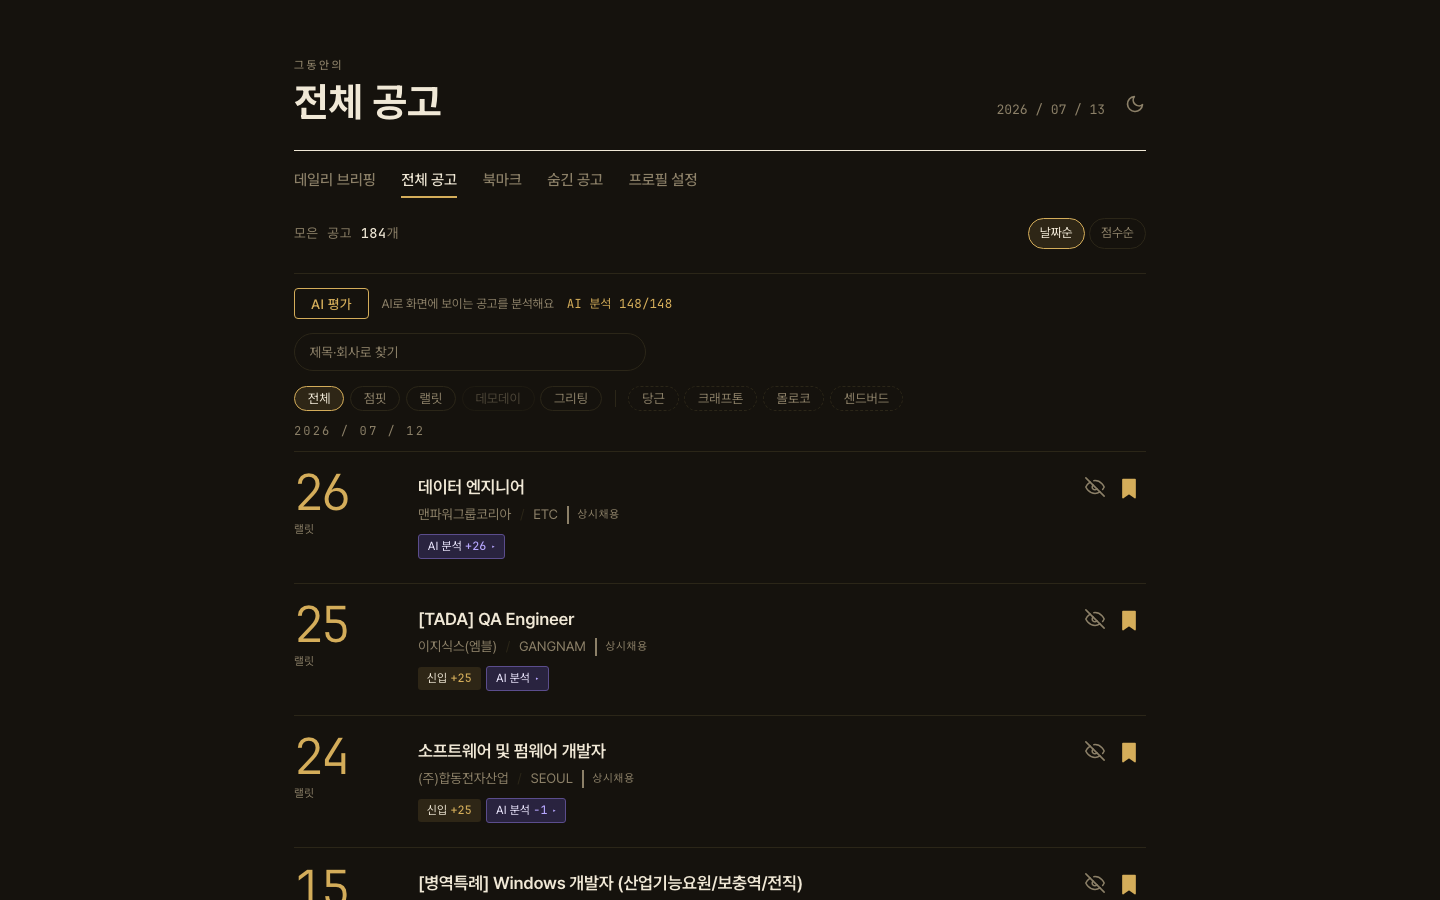
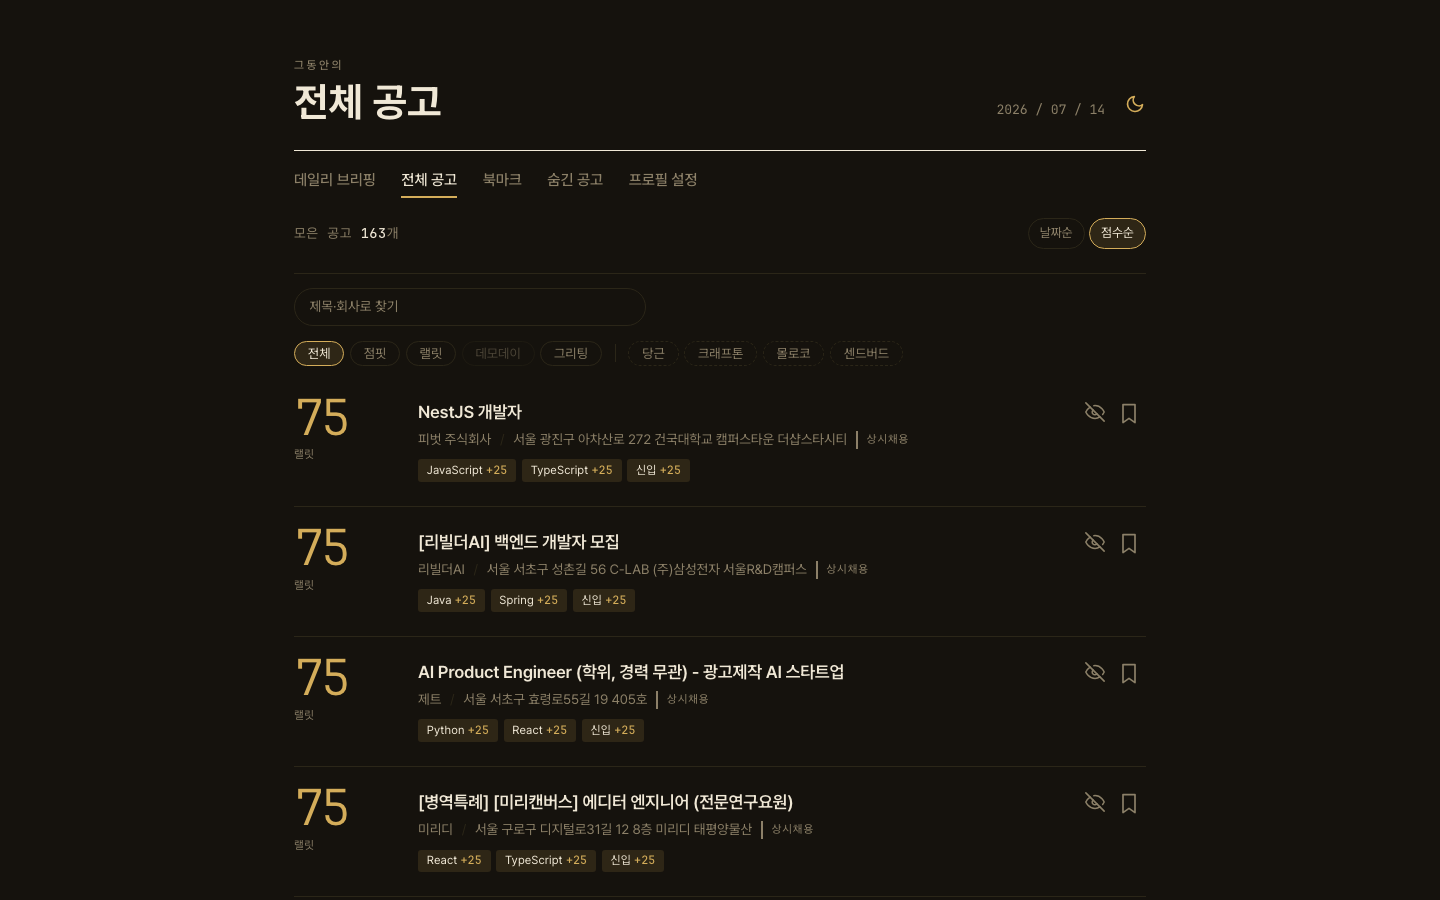
docs: make readmes hosted-first

diff --git a/README.ko.md b/README.ko.md
@@ -2,25 +2,26 @@
 
 _[Read this in English 🇬🇧](README.md)_
 
-한국 신입 IT 구직자를 위한 차분한 일일 채용 공고 브리핑입니다.
+한국 신입 IT 구직자를 위한 차분한 일일 채용 공고 브리핑입니다. 전체 기능을
+제공하는 기본 앱은 `jobcron.app`에서 만날 수 있게 됩니다. 프로필을 한 번
+설정하면 Jobcron이 그날의 공고를 모아 순위를 매기고 한 페이지에 정리합니다.
 
-`jobcron`은 로컬 웹 앱을 여는 단일 바이너리(binary)입니다. **스크랩 시작**을
-누르면 한국 채용 플랫폼 [점핏 (Jumpit)](https://jumpit.saramin.co.kr),
+Jobcron은 한국 채용 플랫폼 [점핏 (Jumpit)](https://jumpit.saramin.co.kr),
 [랠릿 (Rallit)](https://www.rallit.com), [데모데이](https://demoday.co.kr),
 [그리팅 (Greeting)](https://greetinghr.com)과 기업 채용 페이지
 [당근 (Daangn)](https://team.daangn.com), 크래프톤, 몰로코, 센드버드(Greenhouse 경유)를
 스크랩합니다. 모든 신입 IT 공고를 사용자 프로필 기준으로 점수화한 뒤, 각 매칭에 대한
-설명과 함께 한 페이지짜리 일일 브리핑을 보여줍니다. 로컬 실행에는 알림이나 계정이
-필요하지 않습니다. (워크넷은 무료 정부 API 키로 켤 수 있습니다 — *사용법* 참고.)
+설명과 함께 한 페이지짜리 일일 브리핑을 보여줍니다. (워크넷은 무료 정부 API 키로
+켤 수 있습니다 — *사용법* 참고.)
 
 > **배포 상태:** 읽기 전용 데모는
 > [demo.jobcron.app](https://demo.jobcron.app)에서 이용할 수 있습니다. 전체 기능을
 > 제공하는 프로덕션 앱 `jobcron.app`은 아직 공개되지 않았지만 배포 준비를 마쳤으며,
-> 곧 출시할 예정입니다. 그전까지는 전체 앱을 로컬에서 실행할 수 있습니다.
+> 곧 출시할 예정입니다.
 
 <picture>
   <source media="(prefers-color-scheme: dark)" srcset="docs/assets/screenshots/dashboard-dark.png">
-  <img src="docs/assets/screenshots/dashboard.png" alt="The current all-postings page with source filters, AI evaluation progress, and indigo AI analysis chips in light and dark themes">
+  <img src="docs/assets/screenshots/dashboard.png" alt="점수순으로 정렬된 전체 공고 페이지의 소스 필터와 AI 평가 칩">
 </picture>
 
 ## 왜 만들었나 (Why)
@@ -56,10 +57,56 @@ jobcron은 *감정적 측면(emotional layer)*을 위해 만들어졌습니다: 
   브리핑에 증거 인용 기반 조정이 더해집니다 — 각 조정은 공고에서 가져온 실제 인용문으로
   뒷받침되며, 일일 토큰(token) 예산은 당신이 직접 통제합니다. 완전히 선택 사항이며, 키가
   없으면 앱은 이전과 정확히 동일하게 점수를 매깁니다. 아래 *AI 점수화* 참고.
-- 전체 앱은 현재 계정이나 텔레메트리(telemetry, 사용 데이터 수집) 없이 로컬에서
-  실행됩니다. 읽기 전용 웹 데모는 현재 공개되어 있으며, 프로덕션 웹 앱은 곧 출시됩니다.
+- 읽기 전용 웹 데모는 현재 공개되어 있으며, 전체 `jobcron.app` 경험은 곧 출시됩니다.
+  로컬 실행은 기여자와 셀프 호스팅 사용자를 위해 계속 제공합니다.
 
-## 설치 (Install)
+## 사용법 (Usage)
+
+1. 첫 실행 시 프로필 입력 폼으로 이동합니다. 기술 스택, 지역, 그리고 제외
+   키워드(절대 피하고 싶은 조건)를 입력한 뒤 저장하세요.
+2. **스크랩 시작**을 누르고 스크랩이 실시간으로 흘러 들어오는 것을 지켜보세요.
+3. 브리핑을 읽으세요 — 적합도순으로 정렬된 공고와 각 점수의 세부 내역이 표시됩니다.
+
+하루에 한 번 실행하세요. 그것이 의식의 전부입니다.
+
+## 알려진 한계 (Known limitations)
+
+- **AI를 설정하면 매칭은 단순한 토큰 일치에만 의존하지 않습니다.** 1차 AI 레이어가
+  공고 내용에서 경력·학력 요건을 해석한 뒤 점수화에 사용하며, AI를 사용할 수 없으면
+  결정적 규칙 기반 경로로 전환합니다. 다만 사용자가 직접 입력한 제외 키워드는 문자 그대로
+  확인하므로, "개발"은 "개발자"와 일치하지 않고 "야근"은 "야근 없음"에도 걸립니다.
+- **브리핑은 오늘 올라온 공고입니다.** 첫 화면은 오늘 처음 발견된 것을 보여줍니다 — 그것이
+  일일 의식입니다. 지금까지 스크랩한 모든 것은 전체 공고에 남아 있으므로(날짜순 또는
+  적합도순으로 정렬 가능) 잃어버리는 것은 없습니다. 다만 매일 아침 당신에게 소리치지 않을
+  뿐입니다.
+- **신입 IT 전용입니다.** 출처들은 각자의 신입 / 엔트리(entry) 필터로 조회됩니다. 일반적인
+  채용 검색이 아닙니다.
+- 알림도, 백그라운드 스케줄링도, 이력서 파싱도 없습니다 — 의도적인 설계입니다.
+
+## AI 점수화 (선택, v2.0, 당신의 키를 직접 사용)
+
+기본적으로 꺼져 있습니다. 프로필 폼에서 **AI 분석 (선택)**을 열고, 제공자로 **Anthropic**을
+선택하고, 당신의 API 키를 붙여넣은 뒤, 몇 개의 자유 서술형 목표(어떤 일을
+좋아하는지, 무엇을 피하고 싶은지)를 입력하세요. 당신의 키는 데이터베이스 옆의 로컬
+0600 권한 파일에만 저장됩니다 — 업로드되지 않으며, 저장한 뒤에는 다시 표시되지 않습니다.
+
+AI를 켜면 1차 레이어가 각 공고의 경력 범위, 신입 지원 가능 여부, 학력 요건을 읽어 일반
+점수에 반영합니다. 2차 레이어는 공고와 자유 서술형 목표를 비교하며, 공고에 붙은
+**AI 분석** 칩(chip)을 클릭하면 각 점수 조정을 정당화하는 정확한 인용문을 볼 수 있습니다 —
+인용문이 없으면 조정도 없습니다. 페이지별 **AI 평가** 버튼은 당신이 보고 있는 공고들을
+목표 기준으로 다시 점수화하며, 직접 설정하는 일일 토큰 예산이 지출을 제한선 안에 묶어 둡니다.
+
+이것은 **v2.0** 라인이며, 실제 AI 경로가 현실 세계에서 더 많은 검증을 거치는 동안
+`-alpha` 사전 릴리스(prerelease)로 배포됩니다. AI 설정 여부와 무관하게 앱의 나머지 모든
+기능은 동일하게 작동합니다.
+
+## 고급 로컬 사용
+
+대부분의 사용자는 정식 출시 후 `jobcron.app`을 이용하면 됩니다. 로컬 바이너리와
+소스 빌드는 쓰기 가능한 앱을 직접 실행하려는 기여자와 셀프 호스팅 사용자를 위해
+계속 제공합니다.
+
+### 릴리스 바이너리 설치
 
 [최신 릴리스](https://github.com/ohchanwu/jobcron/releases/latest)에서 사용하는
 플랫폼용 바이너리를 내려받아 압축을 풀고 실행하세요. 앱은 <http://localhost:7777>에서
@@ -100,15 +147,6 @@ curl -L https://github.com/ohchanwu/jobcron/releases/latest/download/jobcron_lin
   프로세스가 없는지 확인한 뒤, `jobcron` 디렉터리 이름을 `job-scraper`로 되돌리고 기존
   바이너리를 실행하세요.
 
-## 사용법 (Usage)
-
-1. 첫 실행 시 프로필 입력 폼으로 이동합니다. 기술 스택, 지역, 그리고 제외
-   키워드(절대 피하고 싶은 조건)를 입력한 뒤 저장하세요.
-2. **스크랩 시작**을 누르고 스크랩이 실시간으로 흘러 들어오는 것을 지켜보세요.
-3. 브리핑을 읽으세요 — 적합도순으로 정렬된 공고와 각 점수의 세부 내역이 표시됩니다.
-
-하루에 한 번 실행하세요. 그것이 의식의 전부입니다.
-
 플래그(flag): `--port` (기본값 `7777`), `--no-open` (브라우저를 열지 않음),
 `--db` (데이터베이스 경로 재지정), `--worknet-api-key` (워크넷 출처 활성화 —
 [data.go.kr](https://www.data.go.kr)에서 발급하는 무료 키이며, `JOBCRON_WORKNET_KEY`
@@ -127,38 +165,7 @@ Windows는 `%APPDATA%\jobcron\`).
 미리보기 디렉터리에만 저장되며 실행기가 끝나면 함께 삭제됩니다. 출력된 상태
 디렉터리를 점검하려면 `JOBCRON_PREVIEW_KEEP=1`로 실행하세요.
 
-## 알려진 한계 (Known limitations)
-
-- **AI를 설정하면 매칭은 단순한 토큰 일치에만 의존하지 않습니다.** 1차 AI 레이어가
-  공고 내용에서 경력·학력 요건을 해석한 뒤 점수화에 사용하며, AI를 사용할 수 없으면
-  결정적 규칙 기반 경로로 전환합니다. 다만 사용자가 직접 입력한 제외 키워드는 문자 그대로
-  확인하므로, "개발"은 "개발자"와 일치하지 않고 "야근"은 "야근 없음"에도 걸립니다.
-- **브리핑은 오늘 올라온 공고입니다.** 첫 화면은 오늘 처음 발견된 것을 보여줍니다 — 그것이
-  일일 의식입니다. 지금까지 스크랩한 모든 것은 전체 공고에 남아 있으므로(날짜순 또는
-  적합도순으로 정렬 가능) 잃어버리는 것은 없습니다. 다만 매일 아침 당신에게 소리치지 않을
-  뿐입니다.
-- **신입 IT 전용입니다.** 출처들은 각자의 신입 / 엔트리(entry) 필터로 조회됩니다. 일반적인
-  채용 검색이 아닙니다.
-- 알림도, 백그라운드 스케줄링도, 이력서 파싱도 없습니다 — 의도적인 설계입니다.
-
-## AI 점수화 (선택, v2.0, 당신의 키를 직접 사용)
-
-기본적으로 꺼져 있습니다. 프로필 폼에서 **AI 분석 (선택)**을 열고, 제공자로 **Anthropic**을
-선택하고, 당신의 API 키를 붙여넣은 뒤, 몇 개의 자유 서술형 목표(어떤 일을
-좋아하는지, 무엇을 피하고 싶은지)를 입력하세요. 당신의 키는 데이터베이스 옆의 로컬
-0600 권한 파일에만 저장됩니다 — 업로드되지 않으며, 저장한 뒤에는 다시 표시되지 않습니다.
-
-AI를 켜면 1차 레이어가 각 공고의 경력 범위, 신입 지원 가능 여부, 학력 요건을 읽어 일반
-점수에 반영합니다. 2차 레이어는 공고와 자유 서술형 목표를 비교하며, 공고에 붙은
-**AI 분석** 칩(chip)을 클릭하면 각 점수 조정을 정당화하는 정확한 인용문을 볼 수 있습니다 —
-인용문이 없으면 조정도 없습니다. 페이지별 **AI 평가** 버튼은 당신이 보고 있는 공고들을
-목표 기준으로 다시 점수화하며, 직접 설정하는 일일 토큰 예산이 지출을 제한선 안에 묶어 둡니다.
-
-이것은 **v2.0** 라인이며, 실제 AI 경로가 현실 세계에서 더 많은 검증을 거치는 동안
-`-alpha` 사전 릴리스(prerelease)로 배포됩니다. AI 설정 여부와 무관하게 앱의 나머지 모든
-기능은 동일하게 작동합니다.
-
-## 소스에서 빌드하기 (Build from source)
+### 소스에서 빌드하기 (Build from source)
 
 ```sh
 git clone https://github.com/ohchanwu/jobcron
@@ -169,7 +176,20 @@ go build ./cmd/jobcron
 Go 1.26 이상이 필요합니다. JavaScript 생명주기 테스트를 실행하려면 CI에 고정된
 Node.js 22.15.1 LTS도 필요합니다. 배포되는 애플리케이션은 계속 순수 Go(Pure Go)이며,
 CGO나 Node.js 런타임에 의존하지 않습니다.
-설치해야 할 데이터베이스도 없습니다.
+
+### 로컬 PostgreSQL 개발
+
+프로덕션 앱을 개발할 때는 로컬 PostgreSQL 18에 연결해 실행할 수 있습니다.
+
+```sh
+docker compose -f deploy/local/compose.yaml up -d
+DATABASE_URL='postgres://postgres@localhost:55432/jobcron_dev?sslmode=disable' go run ./cmd/jobcron --no-open
+```
+
+`DATABASE_URL`이 설정되면 jobcron은 PostgreSQL을 열고 내장된 PostgreSQL
+마이그레이션을 적용합니다. 설정하지 않으면 릴리스 바이너리와 데모 명령이 계속
+동작하도록 기존 로컬 SQLite 데이터베이스를 사용합니다. 더 많은 로컬 PostgreSQL
+명령은 [deploy/local/README.md](deploy/local/README.md)에 있습니다.
 
 ## 기여하기 (Contributing)
 

diff --git a/README.md b/README.md
@@ -3,24 +3,25 @@
 _[한국어로 보기 🇰🇷](README.ko.md)_
 
 A calm daily job-posting briefing for Korean new-grad (신입) IT job seekers.
+The primary full app will be available at `jobcron.app`: set your profile once,
+then let Jobcron gather and rank the day's openings into one calm page.
 
-`jobcron` is a single binary that opens a local web app. Click **스크랩 시작**
-and it scrapes Korean job boards — the aggregators [점핏 (Jumpit)](https://jumpit.saramin.co.kr),
+Jobcron scrapes Korean job boards — the aggregators [점핏 (Jumpit)](https://jumpit.saramin.co.kr),
 [랠릿 (Rallit)](https://www.rallit.com), [데모데이](https://demoday.co.kr), and
 [그리팅 (Greeting)](https://greetinghr.com), plus the company career boards
 [당근 (Daangn)](https://team.daangn.com), 크래프톤, 몰로코, and 센드버드 (via Greenhouse) —
 scores every new-grad IT posting against your profile, and shows a one-page daily
-briefing — each match explained, with no notifications or account required for
-local use. (워크넷 also turns on with a free government API key — see *Usage*.)
+briefing with every match explained. (워크넷 also turns on with a free government
+API key — see *Usage*.)
 
 > **Deployment status:** The read-only demo is live at
 > [demo.jobcron.app](https://demo.jobcron.app). The full production app at
 > `jobcron.app` is not publicly available yet; its deployment configuration is
-> ready, and launch is coming soon. Until then, run the full app locally.
+> ready, and launch is coming soon.
 
 <picture>
   <source media="(prefers-color-scheme: dark)" srcset="docs/assets/screenshots/dashboard-dark.png">
-  <img src="docs/assets/screenshots/dashboard.png" alt="The current all-postings page with source filters, AI evaluation progress, and indigo AI analysis chips in light and dark themes">
+  <img src="docs/assets/screenshots/dashboard.png" alt="Score-sorted all-postings page with source filters and AI evaluation chips">
 </picture>
 
 ## Why
@@ -55,10 +56,59 @@ say "천천히 가도 괜찮아요" instead of showing empty-state shame.
   the briefing gains evidence-cited adjustments — each one backed by a real quote
   from the posting, with a daily token budget you control. Entirely optional; with
   no key the app scores exactly as before. See *AI scoring* below.
-- The full app currently runs locally with no account or telemetry. A read-only
-  web demo is live now, and the production web app is coming soon.
+- A read-only web demo is live now, and the full `jobcron.app` experience is
+  coming soon. Local operation remains available for contributors and self-hosters.
 
-## Install
+## Usage
+
+1. On first run you land on the profile form. Fill in your stacks, location, and
+   any dealbreaker keywords, then save.
+2. Click **스크랩 시작** and watch the scrape stream in.
+3. Read your briefing — postings sorted by fit, each score broken down.
+
+Run it once a day. That is the whole ritual.
+
+## Known limitations
+
+- **Matching is AI-assisted when AI is configured.** The first AI layer reads
+  career and education requirements from the posting text before scoring,
+  rather than relying only on exact tokens; if AI is unavailable, deterministic
+  rules take over. Explicit dealbreaker keywords remain literal filters:
+  "개발" does not match "개발자", while "야근" also catches "야근 없음".
+- **The briefing is today's postings.** The front page shows what was first seen
+  today — the daily ritual. Everything ever scraped stays in 전체 공고 (sortable by
+  date or by fit), so nothing is lost; it just isn't shouting at you each morning.
+- **New-grad IT only.** Sources are queried with their 신입 / entry filters; this
+  is not a general job search.
+- No notifications, no background scheduling, no résumé parsing — by design.
+
+## AI scoring (optional, v2.0, bring your own key)
+
+Off by default. On the profile form, open **AI 분석 (선택)**, select **Anthropic**
+as the provider, paste your own API key, and fill in a few free-text goals
+(what work you like, what you want to avoid). Your key is stored only in a local
+0600-permission file next to the database — never uploaded, never shown again
+after you save it.
+
+With AI on, a first layer reads each posting's career range, new-grad eligibility,
+and education requirements before the regular score is calculated. A second layer
+compares the posting with your free-text goals, so each posting can carry an
+**AI 분석** chip you click to see the exact quote that justifies the adjustment —
+no quote, no adjustment. A per-page **AI 평가** button re-rates the postings you're
+looking at (for example after you change your goals, or to analyze more than one
+scrape covered), and a daily token budget (which you set) keeps spend bounded.
+
+This is the **v2.0** line and ships as a `-alpha` prerelease while the live AI
+path gets more real-world mileage. Everything else in the app works identically
+whether or not AI is configured.
+
+## Advanced local use
+
+Most users should use `jobcron.app` once it launches. Local binaries and source
+builds remain available for contributors and self-hosters who want to run the
+writable app themselves.
+
+### Install a release binary
 
 Download the binary for your platform from the
 [latest release](https://github.com/ohchanwu/jobcron/releases/latest), unpack
@@ -98,15 +148,6 @@ curl -L https://github.com/ohchanwu/jobcron/releases/latest/download/jobcron_lin
   no process has the database open, rename the `jobcron` directory back to
   `job-scraper`, and then start the old binary.
 
-## Usage
-
-1. On first run you land on the profile form. Fill in your stacks, location, and
-   any dealbreaker keywords, then save.
-2. Click **스크랩 시작** and watch the scrape stream in.
-3. Read your briefing — postings sorted by fit, each score broken down.
-
-Run it once a day. That is the whole ritual.
-
 Flags: `--port` (default `7777`), `--no-open` (do not open a browser),
 `--db` (override the database path), `--worknet-api-key` (enable the 워크넷
 source — a free key from [data.go.kr](https://www.data.go.kr); also read from
@@ -126,41 +167,7 @@ only inside that temporary preview directory, which is removed when the launcher
 exits. Set `JOBCRON_PREVIEW_KEEP=1` to keep the printed state directory for
 inspection.
 
-## Known limitations
-
-- **Matching is AI-assisted when AI is configured.** The first AI layer reads
-  career and education requirements from the posting text before scoring,
-  rather than relying only on exact tokens; if AI is unavailable, deterministic
-  rules take over. Explicit dealbreaker keywords remain literal filters:
-  "개발" does not match "개발자", while "야근" also catches "야근 없음".
-- **The briefing is today's postings.** The front page shows what was first seen
-  today — the daily ritual. Everything ever scraped stays in 전체 공고 (sortable by
-  date or by fit), so nothing is lost; it just isn't shouting at you each morning.
-- **New-grad IT only.** Sources are queried with their 신입 / entry filters; this
-  is not a general job search.
-- No notifications, no background scheduling, no résumé parsing — by design.
-
-## AI scoring (optional, v2.0, bring your own key)
-
-Off by default. On the profile form, open **AI 분석 (선택)**, select **Anthropic**
-as the provider, paste your own API key, and fill in a few free-text goals
-(what work you like, what you want to avoid). Your key is stored only in a local
-0600-permission file next to the database — never uploaded, never shown again
-after you save it.
-
-With AI on, a first layer reads each posting's career range, new-grad eligibility,
-and education requirements before the regular score is calculated. A second layer
-compares the posting with your free-text goals, so each posting can carry an
-**AI 분석** chip you click to see the exact quote that justifies the adjustment —
-no quote, no adjustment. A per-page **AI 평가** button re-rates the postings you're
-looking at (for example after you change your goals, or to analyze more than one
-scrape covered), and a daily token budget (which you set) keeps spend bounded.
-
-This is the **v2.0** line and ships as a `-alpha` prerelease while the live AI
-path gets more real-world mileage. Everything else in the app works identically
-whether or not AI is configured.
-
-## Build from source
+### Build from source
 
 ```sh
 git clone https://github.com/ohchanwu/jobcron
@@ -171,6 +178,8 @@ go build ./cmd/jobcron
 Requires Go 1.26+. Running the JavaScript lifecycle tests also requires the
 pinned CI version, Node.js 22.15.1 LTS. The shipped application remains pure Go
 with no CGO or Node.js runtime dependency.
+
+### Local PostgreSQL development
 
 For production-app development, run the app against local PostgreSQL 18:
 